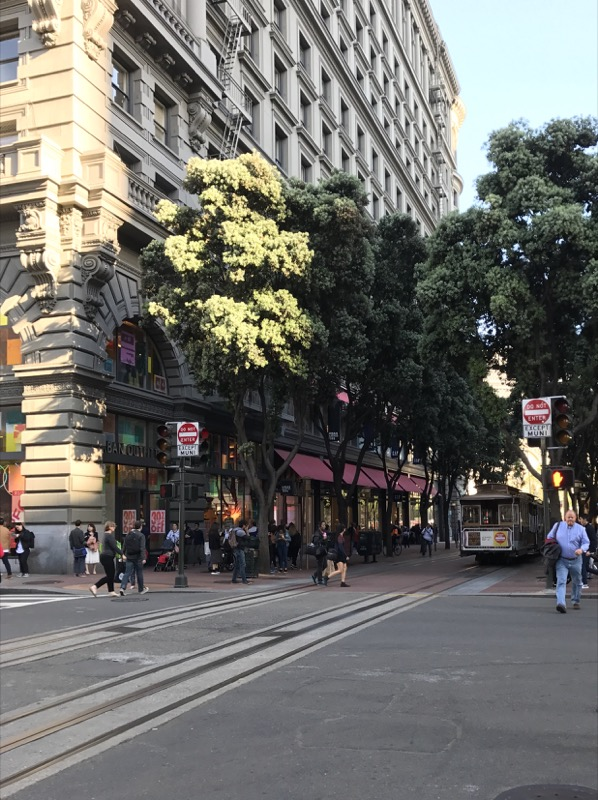
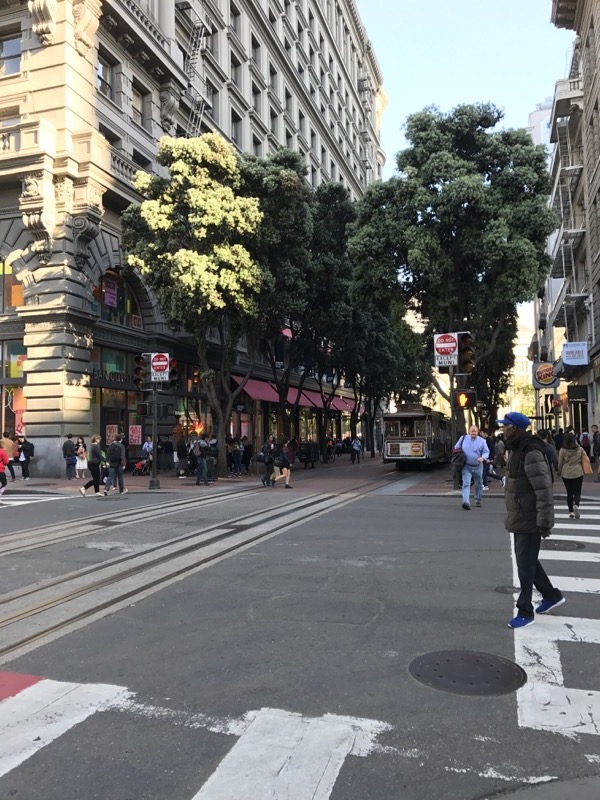
wrote 2nd post

diff --git a/_posts/2017-04-28-Day-2-Visiting-San-Jose.md b/_posts/2017-04-28-Day-2-Visiting-San-Jose.md
@@ -1,0 +1,85 @@
+---
+layout: post
+title:  "Visiting San Jose and San Francisco"
+date:   2017-05-10 23:19:12 -0700
+categories: GEP
+---
+
+## 산호세 방문기
+
+오늘은 미국에 입군한지 이틀째 되는 날이다. 시차 때문에 너무 힘들어서 사무실 구경이고 뭐고 일단 잠을 자고 싶었지만 일정이 있으니 열심히 움직여야지. 하루 하루가 소중한 시간들이다. 오늘은 SDSRA 사무실 입주해 있는 산호세의 삼성 반초세  사옥을 방문해서 사람들도 만나고 산호세 사옥 투어도 하고 식사도 할 예정이다.
+
+최민규 프로와 함께 우버를 타고 산호세로 이동했다. 산호세, 산호세 많이 이야기 했지만 사실 어딘지 잘 몰랐다. 그래서 지도도 첨부해본다.
+
+![map_sanhose]({{ site.url }}/assets/20170428_day2/map_sanhose.png)
+
+이..이쯤? 잘 보면 알겠지만 거리가 꽤나 떨어져 있어서 일반 대중교통으로 이동하면 걷는 시간까지 포함해서 1시간 30분에서 2시간은 걸릴 거리다. 그래서 그냥 우버를 타고 이동~ 공항 근처의 호텔에서 차를 타서 고속도로를 타고 가는데 대략 1시간 10분 쯤 더 걸렸다.
+
+### RIchard와  Rick, Reshma 와의 만남
+입국 문제로 여러가지 우여곡절을 겪으면서 들어왔더니 다들 각별히 신경을 써서 준비를 하고 있었다. HR을 담당하는 Reshma 가 미리 리셉션에 one day employee visiting card 부터 투어 가이드를 해줄 친구들까지 미리 대기시켜 놓았다.
+
+HR을 담당하고 있는  Reshma , 시스템 관리 및 여러 제반의 시스템을 관장하는  Rick , 그리고  SDSRA CNCT(Cloud Native Computing Team)을 대표하는  Richard(Senior Vice President! 우리로 치면 연구소의 소장님인데 그냥 편하게 대화한다. 아 미국인들의 쿨함이여. )와 함게 점식 식사를 하며 이런 저런 이야기를 했다. 업무에 관련해서는 쇼킹했던 J사의 이야기도 있었지만 가장 흥미로왔던건  Richard가 업무 때문에 많은 마일리지를 샇아서 탈 수 있었던  자기 인생 최고의 비행 경험인 초음속 여객기 콩코드(!) 비행 이야기였다. ( 아마도 나중에 또 다시 듣게 되지 않을까 싶다, 그 뭐라고 하지 영화에서 나오는 대기권(성층권??)위에서 지구가 보이는 장면 그거 실제로 봤다고 한다. 부..부럽 ) 밥을 먹고 나서 바로 일어나지 않고 여유롭게 이야기를 하는게 우리랑은 점심식사 스타일이 또 조금 다르다고 느껴지는 부분이었다. ( 식사시간은 쓴만큼 알아서 업무에서 잘 빼서 조절을 하기도 하더라)
+
+
+오피스 투어를 하고 나서는 비행일정을 바꾸고 Jira, Slack, Zoom, Github에서 사용할 이메일 계정들을 신청하고 커피를 마시면서 여유로운 시간을 보냈다. 잠깐 사옥 사진들을 보여주자면..
+
+### 삼성 반도체 사옥 전경
+
+![building]({{ site.url }}/assets/20170428_day2/IMG_0976.JPG)
+우리를 어지럽게 했던 빌딩 외관. 따로 여기가 입구다 라고 티가 나질 않게 지어놨다.
+
+![building]({{ site.url }}/assets/20170428_day2/IMG_0986.JPG)
+
+그래서 처음에는 중앙의 통로로 가서 입구를 못 찾고 해메였다. 그러다가 우연히 지나가던 한국인 직원에게 물어봄...(후후 부끄럽다)
+
+![ssi]({{ site.url }}/assets/20170428_day2/IMG_0979.JPG)
+
+건물 사이에 있는 휴식공간들. 저기 멀리 보이는 건물이 식당이다. 식당은 좀 더 베지테리안이나 다른 나라 사람들에 입맛을 배려한 식단이었는데 여기서 오래 먹다보면 질리는 건 매한가지 인지 다들 차 타고 점심 먹으러 자주 나갔다 온다고 한다.
+
+![ssi]({{ site.url }}/assets/20170428_day2/IMG_0982.JPG)
+
+위에서 내려다 보면 요렇게 생겼다. 저기 화단 옆에 있는 게 무슨 게임용 필드라는데 자기들도 투어를 해주던 친구들도 룰을 잘 모른다고 했다.
+
+![ssi]({{ site.url }}/assets/20170428_day2/IMG_0983.JPG)
+
+높은 층에서 바로 보 전경들. 저기 멀리 북쭉으로 68,000명 이상을 수용할 수 있는 미식 축구 경기장 Levi's Stadium 이 보인다.
+
+![ssi]({{ site.url }}/assets/20170428_day2/IMG_0987.JPG)
+
+그냥 지난 가는 길에 봤더니 시스코 본사(맞..맞나?)가 보인다. 산호세에는 세계에서 유명한 IT 기업들이 길을 가다 어 있네 하면 있다. 흠. 있다.
+
+이렇게 산호세의 일정을 끝내고 나니 대략 오후 3시. 최민규 프로님과 샌프란시스코 시내를 잠깐 둘러보기로 한다.
+
+
+### San Francisco 2시간 짜리 탐방기
+
+![ssi]({{ site.url }}/assets/20170428_day2/IMG_0990.JPG)
+일단 우리는 샌프란시스코의 애플샵으로 향했다. 왜냐하면 내가 맥북 충전기를 안 가지고 왔기 때문이지....ㅜㅜㅜ
+
+![ssi]({{ site.url }}/assets/20170428_day2/IMG_0991.JPG)
+애플 지니어스들이 열심히 설명도 해주고 있다. 흥미로운 점은 따로 계산을 하는 곳이 없고 직접 단말을 가지고 와서 현금, 크레딧카드, 그리고 애플페이로 바로 결제를 할 수 있도록 도와준다는 점이다. 모델명을 말해줬더니 바로 제품을 보여주고 정확하게 뭐가 들어있는지도 설명을 해준다. 호환성에 대한 부분도 걱정하지 말라며...( 얼릉 한국에도 애플 스토어가 들어았으면 좋겠다 )
+
+![ssi]({{ site.url }}/assets/20170428_day2/IMG_0993.JPG
+이날은 매장에서 사람들이 대화를 나누고 있는 걸 직접 녹음을 하고 있었는데 사전에 양해를 구하는 안내문이  있었다. 어디 광고에 쓰려고 하나. 아니면 데이터 분석일까?
+
+![ssi]({{ site.url }}/assets/20170428_day2/IMG_0994.JPG)
+열심히 일하는 하는 애플 지니어스들. 삼성전자도 비슷한 전략으로 모바일 스토어에서 컨설팅(?) 같은걸 하는 점원들을 운용하기 시작한 걸 본 거 같다. 아무리 온라인 거래가 대세긴 하지만 오프라인 매장에서의 체험 공간 제공이나 제품 판매가 아직은 매우 중요해 보인다.
+
+![ssi]({{ site.url }}/assets/20170428_day2/IMG_0996.JPG)
+
+애플 스토어 바로앞이 유니온 스퀘어다. 샌프란시스코 만남의 광장쯤 되려나. 하얀 전쟁 기념탑이 세워져있는 사각형 형태의 광장으로 1850년부터 샌프란시스코의 중심지 역활을 하고 있다고 한다.
+
+![ssi]({{ site.url }}/assets/20170428_day2/IMG_0997.JPG)
+
+길을 따라 내려갔다니 샌프란시스코의 명물인 케이블카가 보인다. 저걸 멋지게 매달려서 타봤어야 했으나 시간이 없는 관계로 생략 ㅜㅜ
+
+![ssi]({{ site.url }}/assets/20170428_day2/IMG_1001.JPG)
+
+샌프란시스코의 다운타운이라 그런지 거리는 활기가 넘쳤다. 산호세랑은 사뭇 다른 느낌인데 산호세의 경우는 건물 하나에 가게 하나가 있을 정도로 집들이 띄엄 띄엄있다. 무슨 대형 주택인가 싶어서 잘 보면 그냥 약국이고 피자 가게고 이렇더라. 차가 없으면 아예 생활이 안되는 동네라는 느낌이었다. 그에 비해 샌프란시스코는 아주 멀지만 않다면 대중 교총으로 충분해 보이는 도시 였다.
+
+![ssi]({{ site.url }}/assets/20170428_day2/IMG_1002.JPG)
+
+유니온 스퀘어 근처에서 가장 만만해 보였던 Tad's Steakhouse. 가격도 음료, 택스까지 포함해서 25불 정도 밖에 안해서 저렴하게 스테이크를 찹찹! 오늘은 오느라 고생했다며 내가 한턱냈다. (민규 프로님 나중에 더 맛난거 살께용 ㅋㅋ)
+
+
+2편은 여기까지! 그럼 다음편에 또 보아용!

diff --git a/_drafts/Day-14-2017-05-10-GCE-K8S.md b/_drafts/Day-14-2017-05-10-GCE-K8S.md
@@ -6,10 +6,80 @@ categories: GEP
 ---
 ## GCE
 
-마이크로 서비스 아키텍처
 
-도커 개념 복습
+Adrian Cockcroft former cloud architect who made micro services mainstream
 
-도커 이미지 만들고 앱 실행하기
 
-도커 허브에 이미지 푸쉬하기
+conway's law
+
+the structure of an organization guides the kind of structure of the code they produce
+
+so what I'm really saying is that you can't build micro services with a waterfall organization.
+
+
+```
+gcloud compute zones list
+
+gcloud config set compute/zone <zone>
+
+gcloud compute instances create ubuntu \
+--image-project ubuntu-os-cloud \
+--image ubuntu-1604-xenial-v20160420c
+
+gcloud compute ssh ubuntu
+
+```
+
+###K8s basic command
+
+```
+kubectl run nginx --image=nginx:1.10.0 # run a container as pods
+
+kubectl get pods #check which pods are running
+
+kubectl expose deployment nginx --port 80 --type LoadBalancer
+
+###Creating pods
+
+```
+creating a pods
+```
+kubectl create -f pods/monolith.yaml
+kubectl get pods
+
+```
+
+monolith.yaml
+```
+apiVersion: v1
+kind: Pod
+metadata:
+  name: monolith
+  labels:
+    app: monolith
+spec:
+  containers:
+    - name: monolith
+      image: udacity/example-monolith:1.0.0
+      args:
+        - "-http=0.0.0.0:80"
+        - "-health=0.0.0.0:81"
+        - "-secret=secret"
+      ports:
+        - name: http
+          containerPort: 80
+        - name: health
+          containerPort: 81
+      resources:
+        limits:
+          cpu: 0.2
+          memory: "10Mi"
+
+```
+### Interacting with pods
+
+set up port forwarding
+
+```
+kubectl port-forward monolith 10080:80
+```

diff --git a/_drafts/Day-13-2017-05-09-GCE.md b/_drafts/Day-13-2017-05-09-GCE.md
@@ -13,3 +13,29 @@ categories: GEP
 도커 이미지 만들고 앱 실행하기
 
 도커 허브에 이미지 푸쉬하기
+
+
+Adrian Cockcroft former cloud architect who made micro services mainstream
+
+from Net Flix
+
+make monolithic system into chunks
+
+
+reason that using microservice is speeding up development
+breaking it into micro services is really about freeing up everybody to run at their own speed
+
+
+each system don't coordinate each other.
+If you coordinate them yor're going back to the monolith!
+
+the point really is to let everybody release on their own cycle.
+which means you need to make sure hat the interfaces are relatively stable and
+you can deploy any piece of it independently of any other piece.
+Typically without sort of asking permission but you Typically let people know.
+
+need automation for testing or documentation.
+
+
+They just let other systems know. -> need more time for interface and documention
+-> It help to dev team to release faster.  

diff --git a/_drafts/Day-2-2017-04-28-Visiting-San-Jose.md b/_drafts/Day-2-2017-04-28-Visiting-San-Jose.md
@@ -6,3 +6,16 @@ categories: GEP
 ---
 
 ## 산호세 방문기
+
+### 입구는 어디에 있는거냐 어디에?
+건물이 상당히 입체적이고(?) 멋지게 생겼다.  그래서 입구를 못참음
+
+### 더 많은 키친과 피트니스 센터
+
+
+### 회사 식당에 대한 소고
+결국 나가서 먹게되겠지. 그런데 여긴 걸어가면 식당에 못감. 차로 나간다!
+
+우면동 느낌
+
+### 더 많은 회의실과 개인 공간

diff --git a/_posts/2017-05-04-Setup-dev-env-for-mac.md b/_posts/2017-05-04-Setup-dev-env-for-mac.md
@@ -2,7 +2,7 @@
 layout: post
 title:  "맥용 개발 환경 셋업하기 - iTerm2 + zsh + oh-my-zsh"
 date:   2017-05-04 10:51:00 -0700
-categories: Tech
+categories: mac
 ---
 
 ## 맥용 개발 환경 셋업하기 - iTerm2 + zsh + oh-my-zsh

diff --git a/_drafts/Day-3-2017-04-29-Settle-Down-To-Seattle.md b/_drafts/Day-3-2017-04-29-Settle-Down-To-Seattle.md
@@ -7,7 +7,6 @@ categories: life in Seattle
 
 ## 드디어 시애틀
 
-
 ## 일정 잡느라 개고생
 
 ## 아파트 시설은 충분히 좋구나
